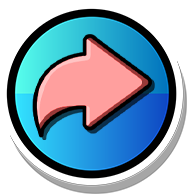
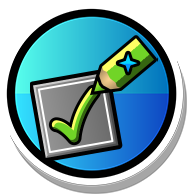
looks goog

Changed region(s): [[0.1604, 0.1531, 0.8556, 0.8265]]

diff --git a/src/popup/RLQueueLevelPopup.cpp b/src/popup/RLQueueLevelPopup.cpp
@@ -42,7 +42,7 @@ bool RLQueueLevelPopup::init() {
     infoSpr->setScale(0.75f);
     auto infoBtn = CCMenuItemSpriteExtra::create(
         infoSpr, this, menu_selector(RLQueueLevelPopup::onInfo));
-    m_buttonMenu->addChildAtPosition(infoBtn, Anchor::TopRight, {3.f, -3.f});
+    m_buttonMenu->addChildAtPosition(infoBtn, Anchor::TopRight, {-3.f, -3.f});
 
     // level cell
     auto bgLevelCell = NineSlice::create("GJ_square01.png");

diff --git a/changelog.md b/changelog.md
@@ -1,3 +1,7 @@
+# v1.0.14
+
+- Changed the submission queue button sprite
+
 # v1.0.13
 
 - Added QoL features for Layout Moderators and Admins in the Sent Layouts
